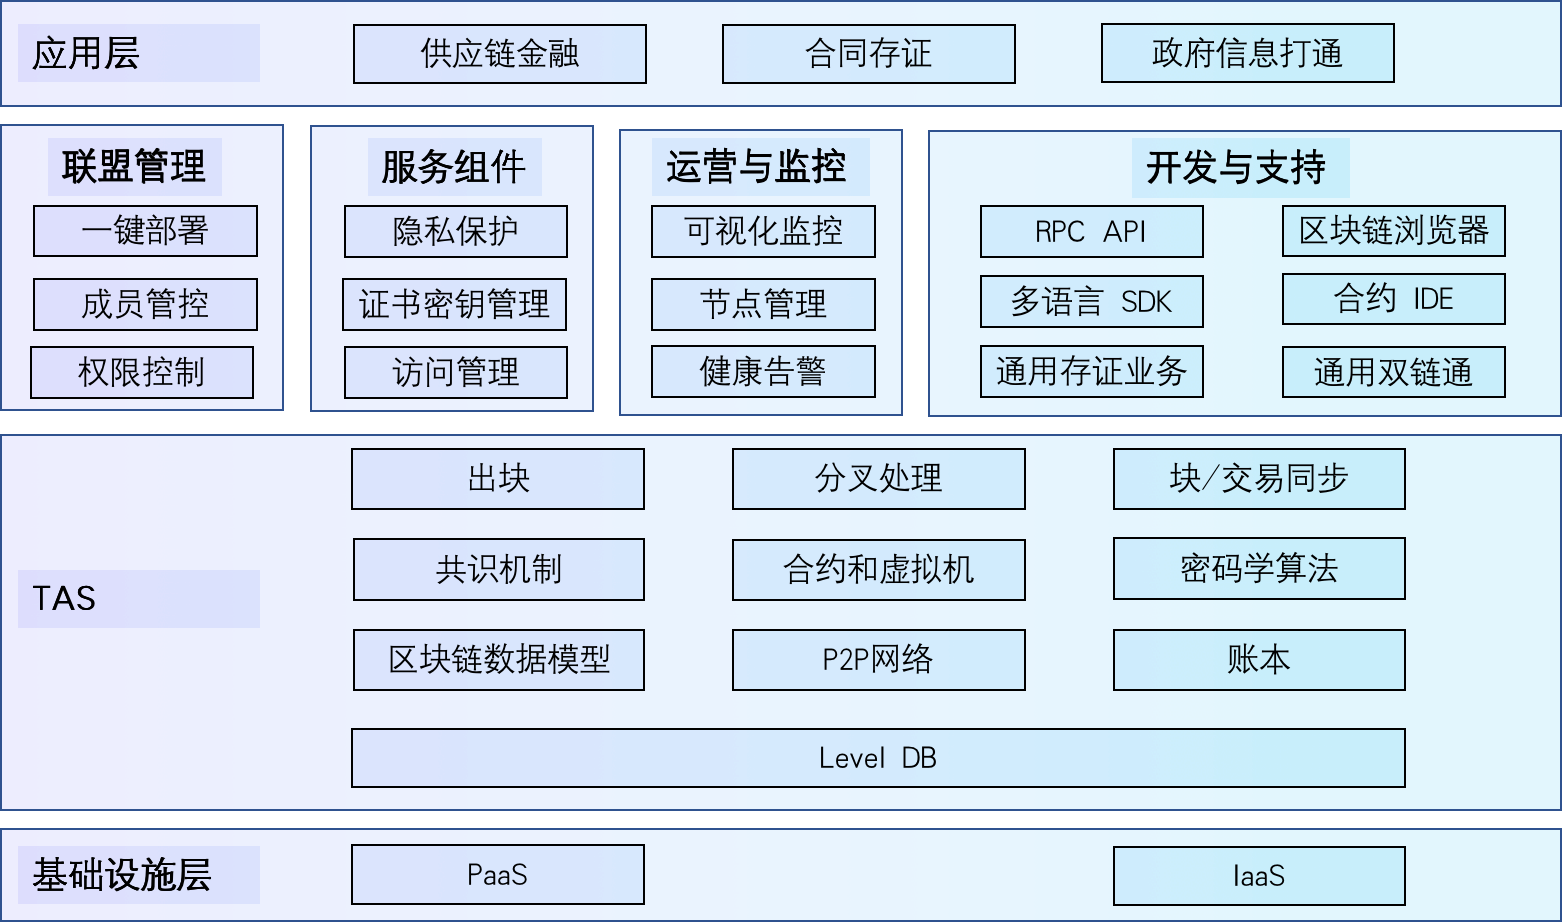
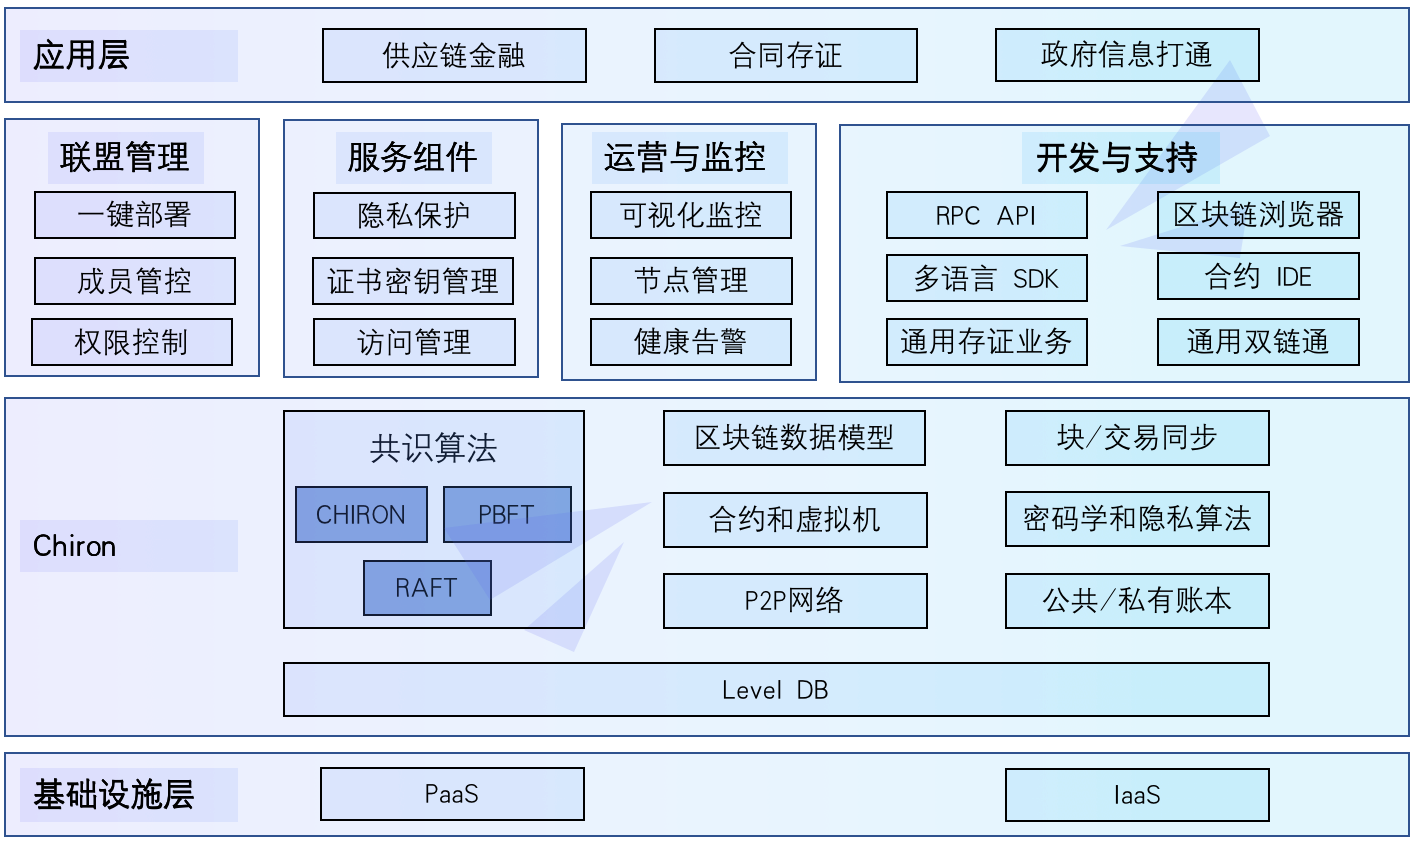
document structure update

diff --git a/source/conf.py b/source/conf.py
@@ -32,6 +32,10 @@ master_doc = 'index'
 # extensions coming with Sphinx (named 'sphinx.ext.*') or your custom
 # ones.
 extensions = [
+    'sphinx_copybutton',
+    'sphinxcontrib.mermaid',
+    'sphinx.ext.mathjax',
+    'sphinx_markdown_tables',
 ]
 
 # Add any paths that contain templates here, relative to this directory.

diff --git a/source/introduction.md b/source/introduction.md
@@ -1,7 +1,5 @@
 # 平台介绍
 
-
-
 ## 背景
 2008年，中本聪划时代的提出了“一种点对点的电子现金系统”，并在白皮书公布3个月后提交了源代码。这份代码运行至今，无论是BTC本身的价值还是BTC的底层技术框架-区块链，都对人类社会的发展产生了前所未有的影响。2013年，Vitalik Buterin创办的以太坊把可编程性引入到区块链，在大幅提高了全球金融流通性的同时，让越来越多的人参与到区块链大生态共建中。
 
@@ -9,9 +7,11 @@
 
 分布式商业与此前流行的连锁加盟型商业模式及共享商业模式的最大不同之处在于，起到中间链接桥梁作用的不是人或产品、不是信息平台、而只是客观的技术本身。诚然，如果技术不开源，确实也可能演变成新的垄断。因此，发展分布式商业必须始终保持技术开源的态度，各个参与方通过开源社区进行分工合作，就将不再存在话语权集中和垄断的可能性，弱肉强食的“丛林法则”在此就不复存在。这有助于中小微企业真正成为商业价值链的主角，从而激发经济增长动力、广泛提升就业、鼓励创业和创新，实现“反垄断”的人类商业终极理想。
 
-## CHIRON
-      Chiron是一个开放源代码的支持联盟链和公链的双向模式调整的区块链平台，设计用于企业环境和金融流通性，与其他流行的分布式账本或区块链平台相比，它提供了一些关键的区分功能。
-###  Chiron特点:**
+## Chiron介绍
+
+   Chiron是一个开放源代码的支持联盟链和公链的双向模式调整的区块链平台，设计用于企业环境和金融流通性，与其他流行的分布式账本或区块链平台相比，它提供了一些关键的区分功能。
+
+### Chiron特点：
 
   - 可配置的区块链底层架构
   - 支持联盟链和公链的双向模式调整
@@ -23,7 +23,7 @@
   - 真正的高性能指标N*TPS
   - 开放的应用中间件社区
   
-### Chiron区块链技术创新：**
+### Chiron区块链技术创新：
 
   -  提出一种新型的共识机制Chiron采用VRF真随机数解决去中心化问题，同时通过组内并行协作方式快速达成共识，TPS目标3000。另外，基于我们多年在大型分布式系统的经验，在提案、验证和出块三个环节都保证了无单点设计，进一步提高系统的性能和鲁棒性。通过严格的数学论证和工程分析，我们认为Chiron共识机制给出了迄今为止全球范围内不可能三角定律的最优解。
   -  Chiron共识机制采用分组VRF+BLS的工作机制，分组VRF保证不能私自铸块，防御长程攻击，并对51%攻击的要求提升到需要控制95%的节点。同时POS权益质押与铸块收益概率线性相关，抵制了女巫攻击，并通过奖惩制度克服了无利害关系。设计应用层对通讯进行分类，需要安全信道的场合均采用ECDH算法对通讯信道进行加密，保证通讯的安全性。用户账户安全，我们采用零知识证明技术，确保账户的安全和隐私保护。智能合约执行安全，则在智能合约提交后，系统将对智能合约进行形式化验证，对合约的安全进行审计，确保执行的安全。

diff --git a/source/design/architecture/index.rst b/source/design/architecture/index.rst
@@ -2,19 +2,18 @@
 整体架构
 ##############################################################
 
-整体架构上，Chiron划分成基础层、核心层、管理层和接口层：
+整体架构上，Chiron划分成基础层、核心层、管理层和应用层：
 
-- **基础设施层**:提供区块链一整套商业解决方案平台
+- **基础设施层**:提供区块链一整套服务器运维部署解决方案
 
-- **区块链核心层**: 实现了区块链的核心逻辑：
-
-  共识模块：Chiron共识算法的核心部分，包括VRF随机提案，BLS组协作验证以及一系列的密码学组件
-  链模块：主要包括块的生成和校验，交易管理、执行和同步，分叉处理，虚拟机以及数据存储
-  网络模块：主要包括网络的接入和退出，p2p节点高效通讯，以及各种复杂网络中实现网络穿透等技术
+- **区块链核心层 Chiron**: 实现了区块链的核心逻辑：
+  - 共识模块：主要包括 支持可插拔的Chiron自研算法CHIRON、PBFT、RAFT。Chiron共识算法的核心部分，包括VRF随机提案，BLS组协作验证以及一系列的密码学组件
+  - 链模块：主要包括 块的生成和校验，交易管理、执行和同步，分叉处理，虚拟机以及公私有数据存储
+  - 网络模块：主要包括 网络的接入和退出，p2p节点高效通讯，以及各种复杂网络中实现网络穿透等技术
 
 - **管理层**: 实现区块链的管理功能，包括联盟管理、服务组件、应用监控、开发者工具等
 
-- **应用层**: 面向区块链用户，提供多种协议的RPC接口、SDK和交互式控制台
+- **应用层**: 面向区块链用户，提供多种协议的RPC接口、SDK和交互式控制台支撑商业需求
 
 .. image:: ../../_static/images/architecture.png
 
